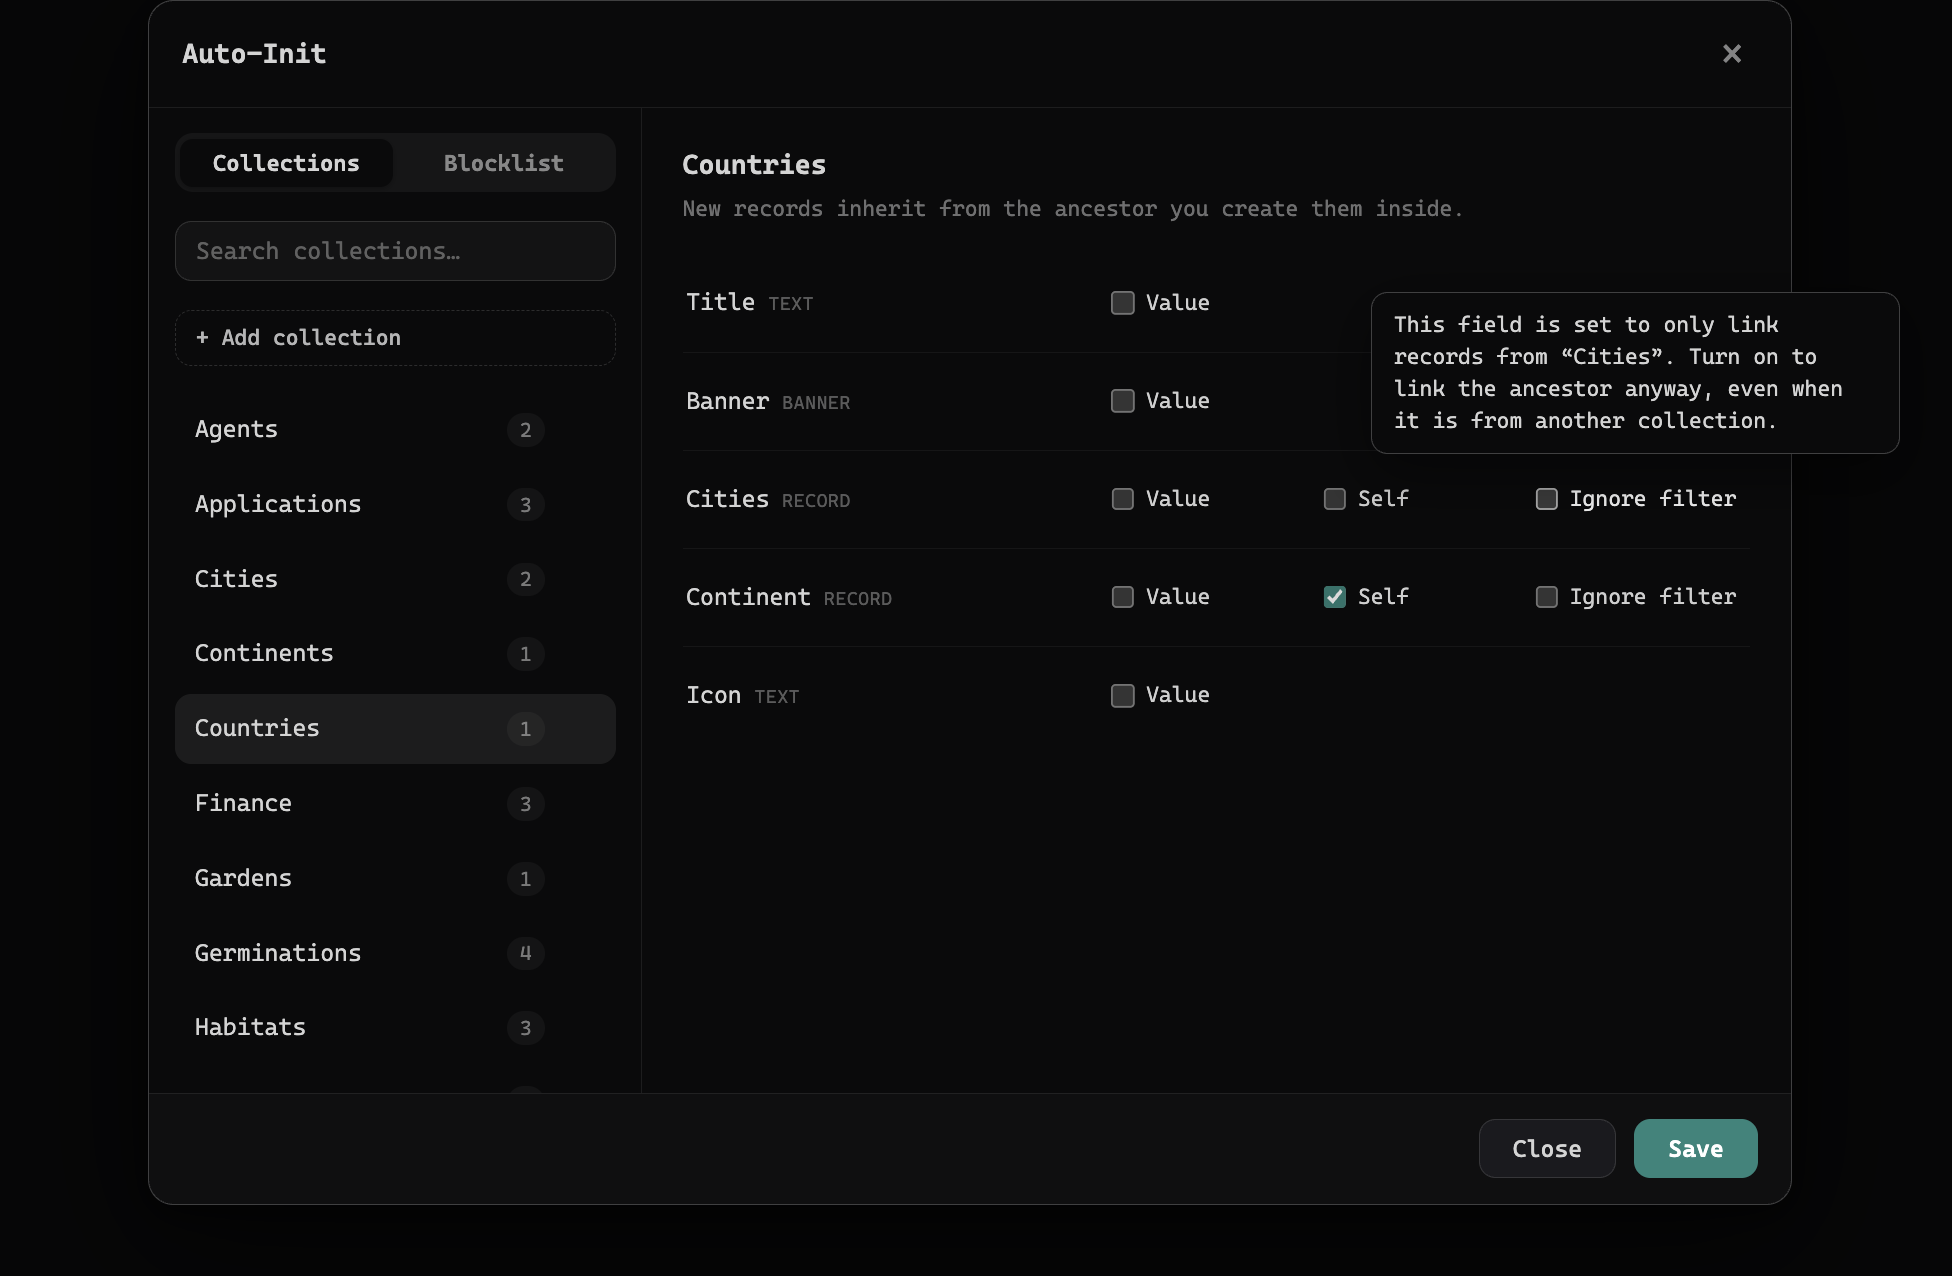
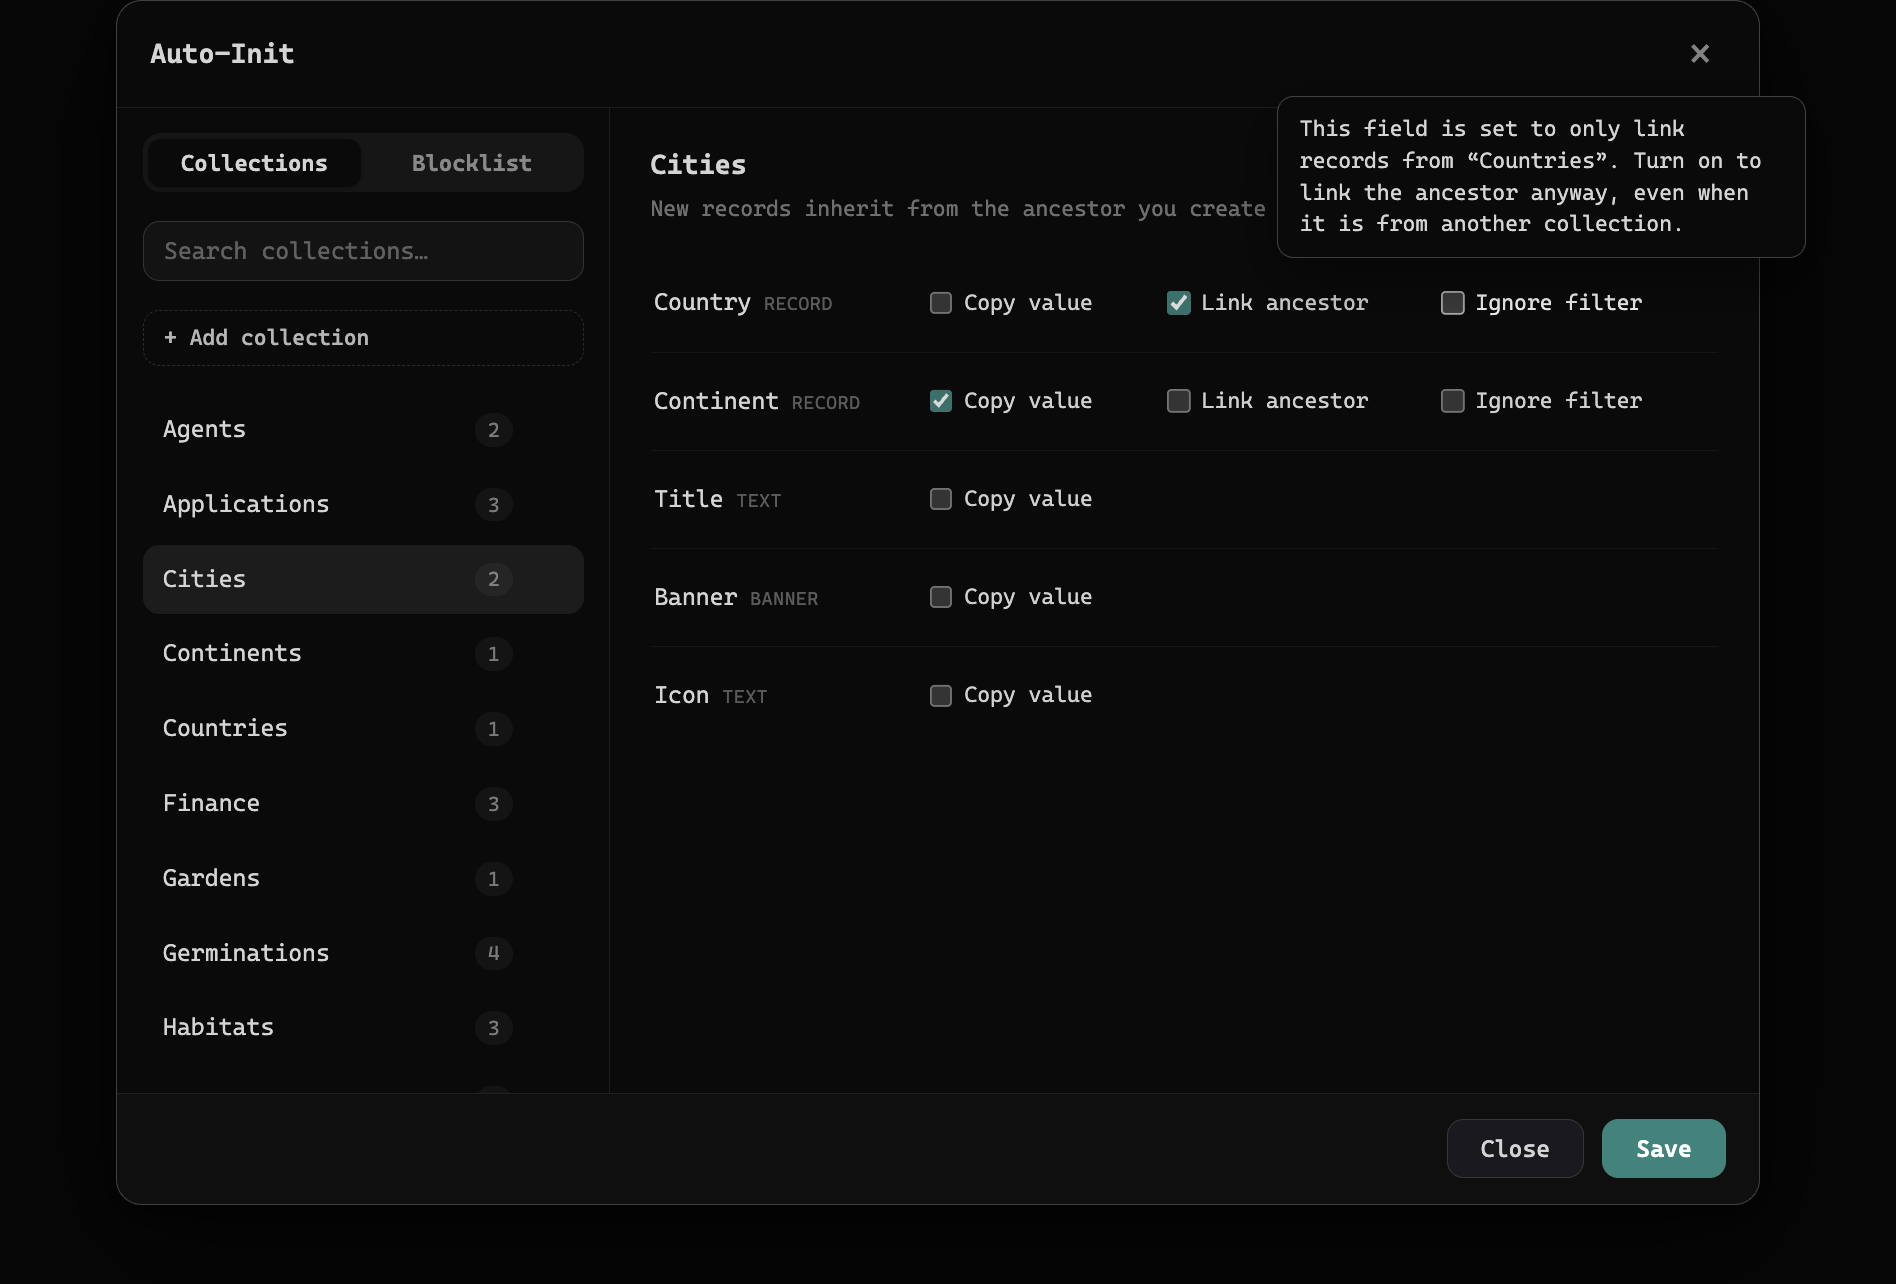
docs: v2.1.0 label rename (Copy value / Link ancestor) + refreshed screenshot

diff --git a/README.md b/README.md
@@ -30,13 +30,13 @@ Per field, per collection, you choose how a new record inherits from its ancesto
 
 | Toggle | Applies to | What it does |
 |---|---|---|
-| **Value** | all fields | Copies the ancestor's value from its matching field into the new record. |
-| **Self** | record fields | Links the ancestor record itself into this field. |
-| **Ignore filter** | record fields that have a collection filter | Links the ancestor even if the field's "Filter by collection" would normally not allow it. |
+| **Copy value** | all fields | Copies the ancestor's value from its matching field into the new record. |
+| **Link ancestor** | record fields | Links the ancestor record itself into this field. |
+| **Ignore filter** | record fields that have a collection filter | Links the ancestor even when it is from a collection the field's "Filter by collection" would normally not allow. |
 
-Value and Self are independent. Turn on both and the plugin tries the value first, then falls back to linking the ancestor.
+Copy value and Link ancestor are independent. Turn on both and the plugin tries the value first, then falls back to linking the ancestor.
 
-How **Value** finds the matching field on the ancestor:
+How **Copy value** finds the matching field on the ancestor:
 
 - **Same collection** (for example sub-tasks in a Tasks collection): matched by field.
 - **Different collections** (for example an Action created inside a Book): matched by field **label** (case-insensitive) and **type**.
@@ -57,7 +57,7 @@ Open the Command Palette (Cmd/Ctrl+P) and run **"Auto-Init: Settings"**. The pan
 
 ![The Auto-Init settings panel: the Collections tab, with a collection selected and each field's inheritance toggles on the right](assets/settings-collections.png)
 
-**Collections.** Search for a collection, or click **+ Add collection** to start configuring one. Select a collection to see its fields, then toggle **Value**, **Self**, and **Ignore filter** per field. A badge next to each collection shows how many active rules it has. Hover any toggle for a short explanation.
+**Collections.** Search for a collection, or click **+ Add collection** to start configuring one. Select a collection to see its fields, then toggle **Copy value**, **Link ancestor**, and **Ignore filter** per field. A badge next to each collection shows how many active rules it has. Hover any toggle for a short explanation.
 
 **Blocklist.** Collections listed here are skipped entirely (see below).
 
@@ -101,7 +101,7 @@ On first load after upgrading, the plugin **automatically imports** your existin
 
 ### A field is not being filled
 
-Open the Settings panel and confirm the collection has the rule you expect (Value or Self on that field). For cross-collection **Value** inheritance, the ancestor must have a field with the **same label and type**.
+Open the Settings panel and confirm the collection has the rule you expect (Copy value or Link ancestor on that field). For cross-collection **Copy value** inheritance, the ancestor must have a field with the **same label and type**.
 
 ### A record got auto-initialized when it should not have
 

diff --git a/CHANGELOG.md b/CHANGELOG.md
@@ -5,6 +5,12 @@ All notable changes to this project will be documented in this file.
 The format is based on [Keep a Changelog](https://keepachangelog.com/en/1.1.0/),
 and this project adheres to [Semantic Versioning](https://semver.org/spec/v2.0.0.html).
 
+## [2.1.0] - 2026-07-01
+
+### Changed
+- Renamed the two main toggles for clarity: **Value** is now **Copy value**, and **Self** is now **Link ancestor**. "Ignore filter" is unchanged. No config or behaviour change, just labels.
+- Link ancestor now reads the ancestor's collection from the record itself when checking a field's "Filter by collection", so the filter is respected reliably even when the ancestor is a Journal page or another special panel.
+
 ## [2.0.0] - 2026-07-01
 
 A major rewrite (the previous `0.1.x` line was the first, early release). Configuration moved from per-collection `plugin.json` blocks to a central store, edited through a visual settings panel. This is a breaking change to how config is stored, hence the major version bump; existing setups are migrated automatically.